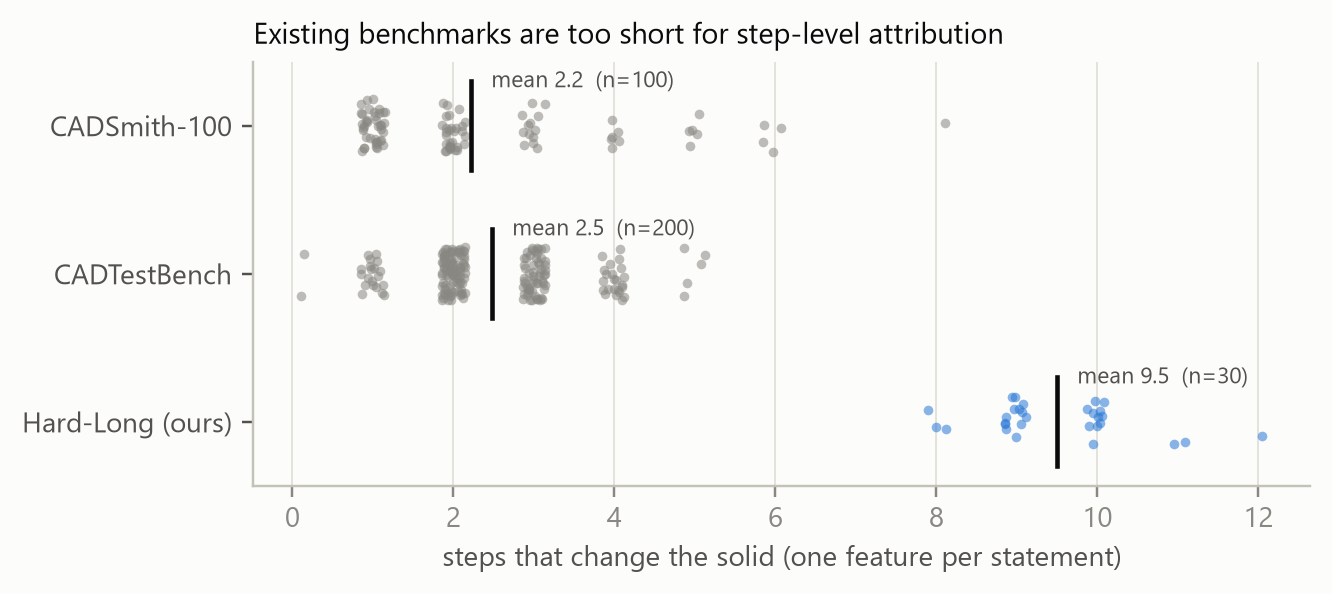
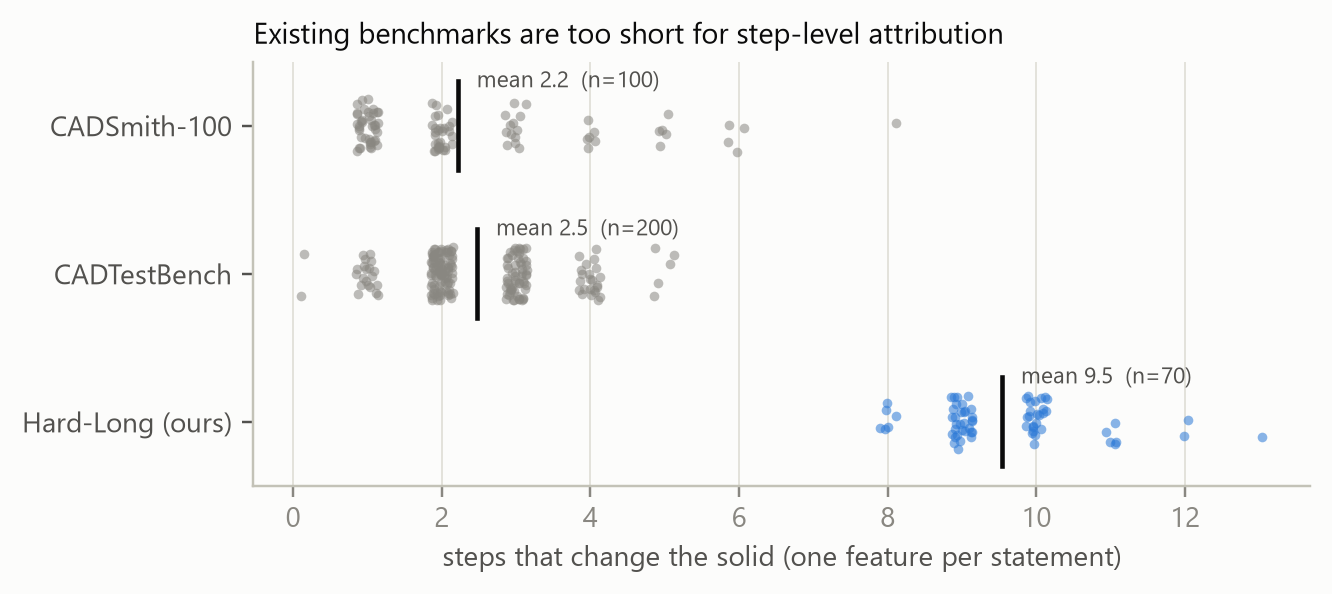
Hard-Long v1 confirmatory E3: matrix v3 55.5 % vs v2 52.6 %, SBFL 42.5 %; adopt v3 as default
742 faults on 40 unseen parts (seeds 0-2), pre-registered comparisons: v3 > v2 (24 gained /
2 lost, p = 1e-5), matrix > DStar (170 / 73, p = 4e-10), >> last step and random. rst_v2 is
now the ablation preset. Figures include the v1 set.

diff --git a/scripts/rst/figures.py b/scripts/rst/figures.py
@@ -89,12 +89,13 @@ def _legend_above(ax, ncol):
 
 
 def fig_e3_localisation():
-    groups = [("Hard-Long\n(~9.5 steps)", records("hardlong_entry")),
+    groups = [("Hard-Long v1, unseen parts\n(~9.6 steps)", records("hardlong-v1_entry", seeds=(0, 1, 2))),
+              ("Hard-Long v0, held-out seeds\n(~9.5 steps)", records("hardlong_entry")),
               ("CADTestBench refs\n(~2-3 steps)", records("cadtestbench-detailed_oracle_thr"))]
     series = [("RST matrix, first guess", "matrix_hit", RST_BLUE), ("RST matrix, within top 3", "matrix_top3", RST_BLUE_LIGHT),
               ("SBFL (DStar)", "dstar_hit", SBFL_GREY), ("Last step", "last_hit", BASE_DARK),
               ("Random step", "random_hit", BASE_LIGHT)]
-    fig, ax = plt.subplots(figsize=(6.2, 3.6))
+    fig, ax = plt.subplots(figsize=(6.2, 4.9))
     h, gap = 0.15, 0.025
     for gi, (_, rows) in enumerate(groups):
         n = len(rows)
@@ -122,7 +123,7 @@ def fig_e3_localisation():
 
 
 def fig_e3_by_fault():
-    rows = records("hardlong_entry")
+    rows = records("hardlong_entry") + records("hardlong-v1_entry", seeds=(0, 1, 2))
     names = {"feature_delete": "feature deleted", "placement_shift": "feature moved", "count_change": "count changed",
              "param_shift": "size changed", "wrong_workplane": "wrong plane / face"}
     kinds = sorted(names, key=lambda k: -rate([r for r in rows if r["kind"] == k], "matrix_hit"))
@@ -146,7 +147,7 @@ def fig_e3_by_fault():
     ax.set_xlabel("localised to the right step (%)")
     _grid(ax)
     _legend_above(ax, 4)
-    ax.set_title("Hard-Long held-out faults by type", loc="left", fontsize=9.5, color=INK, pad=22)
+    ax.set_title(f"Hard-Long held-out faults by type (v0 held-out seeds + v1 parts, n = {len(rows)})", loc="left", fontsize=9.5, color=INK, pad=22)
     save(fig, "fig_e3_by_fault")
 
 
@@ -157,7 +158,8 @@ def fig_program_length():
         f = ROOT / path
         if f.exists():
             data.append((label, [json.loads(l)["threaded_stmts_modifying"] for l in open(f, encoding="utf-8") if l.strip()]))
-    hl = [json.loads(l)["n_ops"] for l in open(ROOT / "data/hard_long/hard_long_v0.jsonl", encoding="utf-8") if l.strip()]
+    hl = [json.loads(l)["n_ops"] for v in ("v0", "v1")
+          for l in open(ROOT / f"data/hard_long/hard_long_{v}.jsonl", encoding="utf-8") if l.strip()]
     data.append(("Hard-Long (ours)", hl))
     fig, ax = plt.subplots(figsize=(6.2, 2.5))
     rng = random.Random(0)

diff --git a/rst/localize.py b/rst/localize.py
@@ -45,7 +45,7 @@ from .program import Program
 # Blame-rule versions (E3 results are reported per version). v2 was frozen before the held-out seeds were run;
 # v3 adds the unexplained-operation rule and whole tool-body chains, developed on the development seed only.
 RULES = ("v2", "v3")
-RULES_VERSION = "v2"   # default used by the method; bump only after a version is validated on held-out data
+RULES_VERSION = "v3"   # default used by the method (v3 confirmed on Hard-Long v1, 2026-10-03)
 
 RULE_ORDER = {"regression": 0, "global": 1, "last_touch": 2, "unexplained": 3, "missing": 4, "frame": 5}
 

diff --git a/scripts/rst/run_benchmark.py b/scripts/rst/run_benchmark.py
@@ -51,7 +51,7 @@ PRESETS = {
     "best_of_n": ("best_of_n", {}),
     "rst": ("rst", {}),
     # ablations
-    "rst_v3": ("rst", {"rules": "v3"}),
+    "rst_v2": ("rst", {"rules": "v2"}),
     "rst_llm_localize": ("rst", {"localizer": "llm"}),
     "rst_random_localize": ("rst", {"localizer": "random"}),
     "rst_last_localize": ("rst", {"localizer": "last"}),

diff --git a/docs/research/RST_METHOD.md b/docs/research/RST_METHOD.md
@@ -68,9 +68,9 @@ tuned on.
   repair region in full (`Program.dependencies(chains=True)`).
 
 Seed-0 effect, first guess (every localiser scored with the same region): Hard-Long 55.9 → 60.2 %,
-CADTestBench 54.3 → 57.2 %. v2 stays the method's default (`RULES_VERSION`) until v3 is confirmed on held-out
-data: mutant seeds 1–2 of Hard-Long v0 and CADTestBench, and the 40 Hard-Long v1 parts, which were written after
-v2 was frozen and never inspected during rule development. `rst_v3` in `run_benchmark.py` runs the method with v3.
+CADTestBench 54.3 → 57.2 %. Held-out seeds 1–2: Hard-Long 56.8 → 59.5 %, CADTestBench 56.6 → 58.7 %. Confirmed on
+Hard-Long v1 (below), so **v3 is the method's default** (`RULES_VERSION`) since 2026-10-03; `rst_v2` in
+`run_benchmark.py` runs the method with v2 as an ablation.
 
 **Re-scoring without re-execution.** Every E3 fault keeps its program, requirements and full trajectory under
 `runs/e3/<tag>/work/`. `scripts/rst/e3_rescore.py --rules <v> [--region <v>]` rebuilds the trajectories and
@@ -95,6 +95,26 @@ Pre-stated comparisons (pooled over seeds; 95 % Wilson intervals; paired exact M
 4. per fault type, descriptive only.
 Whatever the outcome, v1 numbers are reported as they come out; the version adopted as the method default
 is v3 if comparison 1 is not worse, otherwise v2. No rule is changed after this run.
+
+**Result (2026-10-03; 742 faults on 40 parts, seeds 0–2; `runs/e3_rescored/compare_hardlong-v1_entry_s012.md`):**
+
+| localiser | first guess (95 % CI) | top-3 |
+|---|---|---|
+| matrix v3 | **55.5 %** (52–59) | 66.8 % |
+| matrix v2 | 52.6 % (49–56) | 63.5 % |
+| SBFL DStar / Ochiai / Tarantula | 42.5 / 40.3 / 37.7 % | 60.6 / 58.9 / 58.9 % |
+| last step / random | 17.4 / 9.7 % | |
+
+1. v3 vs v2: 24 faults gained, 2 lost, exact McNemar p = 1e-5. **v3 adopted.**
+2. v3 vs DStar: 170 vs 73 (p = 4e-10); vs Ochiai 178 vs 65 (p = 3e-13). Matrix higher, as expected.
+3. v3 vs last step 301 vs 18, vs random 376 vs 36 (p < 1e-60).
+4. By fault type (v3 / DStar): deleted feature 54 / 15 %, wrong plane 46 / 28 %, size change 54 / 49 %, moved feature
+   64 / 66 %, count change 61 / 86 %.
+
+The fresh parts are about 4 points harder than v0's held-out seeds (59.5 %), mostly on deleted features (66 → 54 %):
+the expected cost of having developed the rules on v0 parts. The first-guess gate (≥ 70 %) is not met; top-3 is 67 %.
+SBFL is clearly better on count changes, so a matrix + SBFL combination is the obvious next rule version; it would have
+to be developed on v0 seed 0 and tested on new data, not on v1.
 
 ## Not yet implemented
 

diff --git a/docs/figures/README.md b/docs/figures/README.md
@@ -16,17 +16,18 @@ reference geometry is used.
 **fig_e3_localisation** — *Fault localisation without target geometry.* Share of injected faults for which the
 blamed step is the faulty one (a hit counts the blamed statement together with the statements it depends on,
 i.e. the region the repair may edit). Baselines: spectrum-based fault localisation (DStar, requirements as
-tests), the last step, a random step. On Hard-Long (~9.5 construction steps) the matrix's first guess is right
-59 % of the time (95 % Wilson interval shown), against 40 % for SBFL and 11 % for a random step. On the short
-CADTestBench reference programs (2–3 steps) a random step is already right 46 % of the time and SBFL equals
-the matrix (60 % vs 59 %): step-level blame only separates methods on long programs.
+tests), the last step, a random step. Three held-out sets: 40 Hard-Long v1 parts never seen during rule
+development (the pre-registered confirmatory test), held-out mutant seeds of the 30 Hard-Long v0 parts, and the
+CADTestBench reference programs. On long programs the matrix's first guess is right 56–59 % of the time (95 %
+Wilson intervals shown) against 40–42 % for SBFL and 10–11 % for a random step; on the short CADTestBench
+programs (2–3 steps) a random step is already right 46 % of the time and SBFL equals the matrix (60 % vs 59 %).
 
-**fig_e3_by_fault** — *Hard-Long localisation by fault type.* The matrix's lead over SBFL comes from deleted
-features (66 % vs 7 %: SBFL can only rank code that exists), features built on the wrong plane or face (38 % vs
-26 %) and changed sizes (52 % vs 45 %); moved features are a tie and SBFL is better on changed counts (69 % vs
-60 %).
+**fig_e3_by_fault** — *Hard-Long localisation by fault type* (all 1,122 held-out Hard-Long faults). The matrix's
+lead over SBFL comes from deleted features (58 % vs 12 %: SBFL can only rank code that exists), features built on
+the wrong plane or face (43 % vs 27 %) and changed sizes (54 % vs 48 %); moved features are a tie and SBFL is
+better on changed counts (80 % vs 60 %).
 
 **fig_program_length** — *Existing benchmarks are too short for step-level attribution.* Number of construction
 steps that change the solid (after rewriting each reference program to one feature per statement). CADSmith-100
-and CADTestBench average 2.2 and 2.5 steps, so which-step questions are nearly trivial there; Hard-Long parts
-average 9.5.
+and CADTestBench average 2.2 and 2.5 steps, so which-step questions are nearly trivial there; the 70 Hard-Long
+parts (v0 + v1) average 9.5.

diff --git a/docs/research/NUMBERS_TO_BEAT.md b/docs/research/NUMBERS_TO_BEAT.md
@@ -97,7 +97,8 @@ full < no-vision < zero-shot survives; dimensional errors (bbox, volume) make th
 | **E3 attribution, Hard-Long** (own suites; held-out seeds 1–2, rules v2; 380 faults, ~9.5 steps) | matrix first blame **57 %** (52–62), top-3 **68 %**; random **11 %**, last step **16 %**; deleted features 70 %, moved features 71 %, wrong counts 55 %, parameter changes 45 %, wrong plane 29 % | ~5x random; first-blame gate not met; LLM comparison pending (Bedrock) |
 | E3 development set (seed 0; rules were tuned on it) | CADTestBench 55 % / 80 %; Hard-Long 56 % / 67 % | not reported as a result |
 | **E3 spectrum-based baselines** (SBFL with requirements as tests; same held-out faults, v2 region) | CADTestBench: Ochiai **57 %**, DStar **59 %** (matrix v2 57 %); Hard-Long: Ochiai 39 %, DStar 39 % (matrix 57 %) | SBFL matches the matrix on short programs; the matrix leads by ~18 pts on long ones |
-| **E3 rules v3** (frozen after seed-0 development; held-out seeds 1–2; all localisers scored with the v3 region) | Hard-Long **59.5 %** (54–64), top-3 71 %, vs v2 56.8 %: 16 faults gained / 6 lost (McNemar p = 0.053); wrong plane 29 → 38 %, size changes 45 → 52 %, deleted features 70 → 66 %. CADTestBench **58.7 %** (55–63), top-3 86 %, vs v2 56.6 %: 14 / 2 (p = 0.004); DStar 60 %, Ochiai 58 % | improves on both; confirmatory test on the 40 fresh Hard-Long v1 parts pending |
+| **E3 rules v3** (frozen after seed-0 development; held-out seeds 1–2; all localisers scored with the v3 region) | Hard-Long **59.5 %** (54–64), top-3 71 %, vs v2 56.8 %: 16 faults gained / 6 lost (McNemar p = 0.053); wrong plane 29 → 38 %, size changes 45 → 52 %, deleted features 70 → 66 %. CADTestBench **58.7 %** (55–63), top-3 86 %, vs v2 56.6 %: 14 / 2 (p = 0.004); DStar 60 %, Ochiai 58 % | improves on both |
+| **E3 confirmatory test, Hard-Long v1** (40 unseen parts, seeds 0–2, 742 faults; pre-registered) | matrix v3 **55.5 %** (52–59), top-3 67 %; v2 52.6 % (24 gained / 2 lost, p = 1e-5); DStar 42.5 %, Ochiai 40.3 %, last step 17.4 %, random 9.7 %; by type v3 / DStar: deleted 54 / 15 %, wrong plane 46 / 28 %, size 54 / 49 %, moved 64 / 66 %, count 61 / 86 % | v3 adopted as default; matrix > SBFL (p = 4e-10); first-blame gate (≥ 70 %) not met |
 
 ## Final table we are aiming for (paper Table 1)
 
